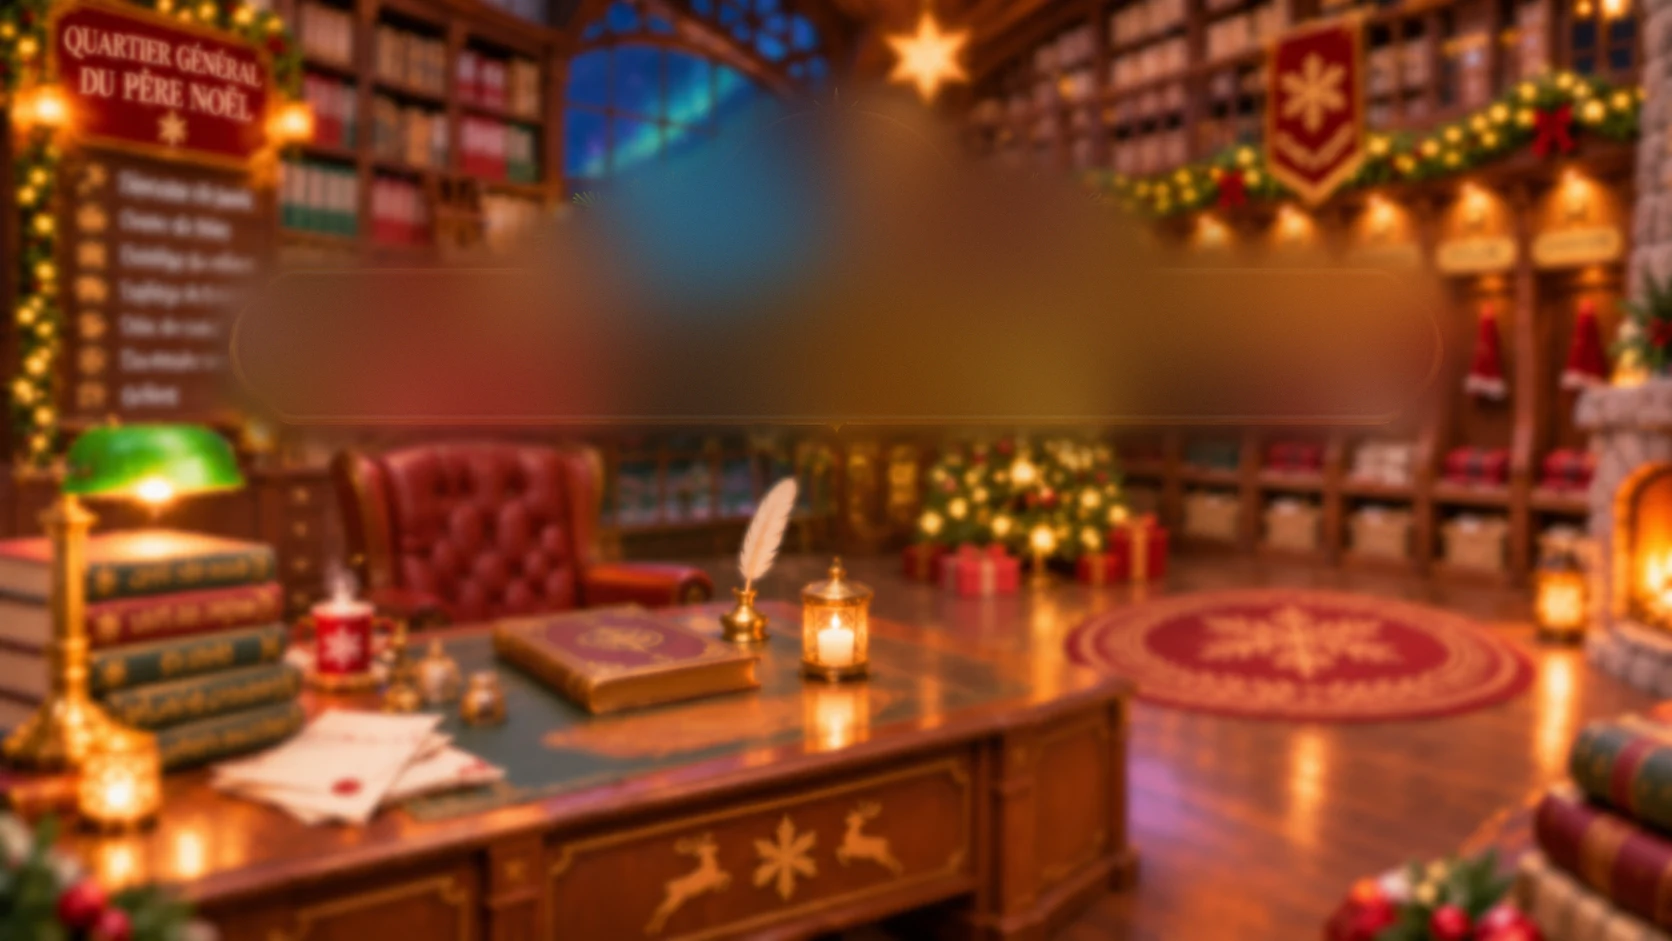
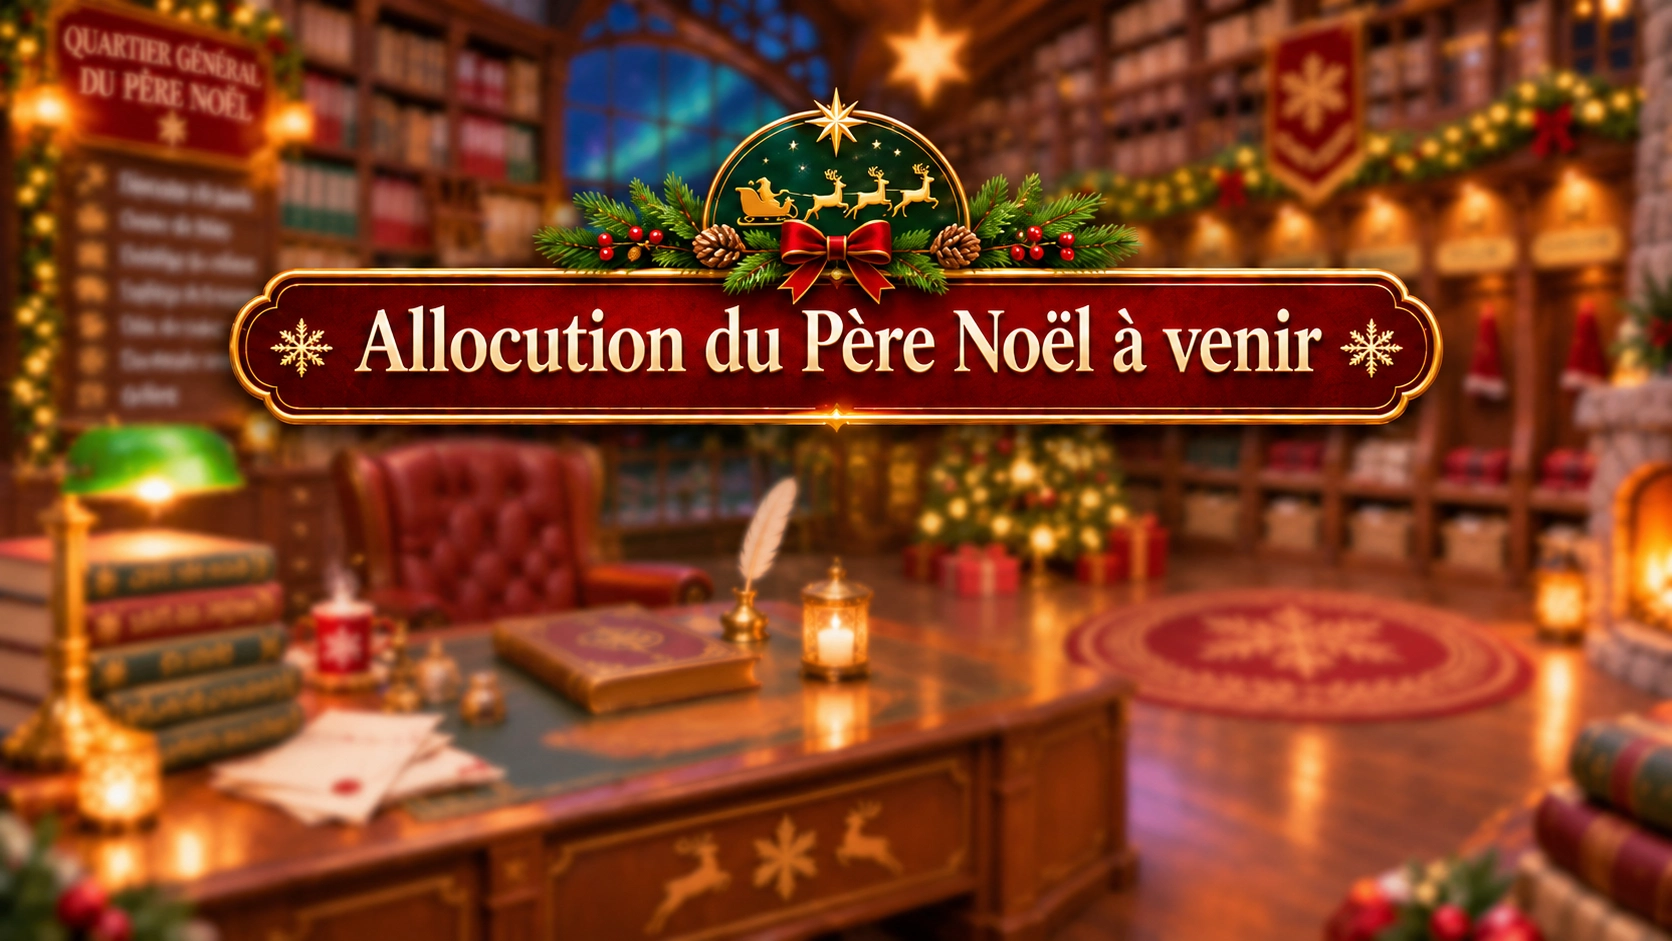
Écran d'attente en haute qualité avec la nouvelle plaque du compte à rebours
- Fond : maquette « Allocution du Père Noël à venir » d'origine (WebP haute qualité),
  sans reconstruction ni zoom permanent ; effets posés sur le bandeau (halo,
  reflet doré, étoiles) via son masque
- Plaque du compte à rebours HD détourée, affichée seulement quand le maître du
  jeu lance le compte à rebours ; chiffres d'origine effacés, temps affiché en direct
- Chiffres en Playfair Display (embarquée), alignés et à chasse fixe

Changed region(s): [[0.1244, 0.0616, 0.8708, 0.4931]]

diff --git a/frontend/src/components/tv/WaitingScreen.tsx b/frontend/src/components/tv/WaitingScreen.tsx
@@ -1,6 +1,5 @@
 import { useEffect, useMemo, useState, type CSSProperties } from "react";
 
-import bandeau from "../../assets/attente/bandeau.webp";
 import bandeauMasque from "../../assets/attente/bandeau-masque.webp";
 import fond from "../../assets/attente/fond.webp";
 import plaque from "../../assets/attente/plaque.webp";
@@ -12,13 +11,15 @@ import { formatCountdown, remainingSeconds } from "./playback";
 const FINAL_SECONDS = 10;
 
 /*
- * Les calques sont découpés dans les maquettes 1672×941 : leurs positions sont exprimées en % du cadre 16:9
- * de la TV, pour se superposer exactement au fond quelle que soit la résolution.
+ * Le fond est la maquette « Allocution du Père Noël à venir » (1672×941) telle quelle : les effets sont posés
+ * par-dessus, en % du cadre 16:9 de la TV, pour tomber au bon endroit quelle que soit la résolution.
  */
+/** Emplacement du bandeau titre dessiné dans le fond (masque du reflet doré). */
 const BANDEAU_BOX: CSSProperties = { left: "13.158%", top: "8.502%", width: "73.684%", height: "38.257%" };
-const PLAQUE_BOX: CSSProperties = { left: "25.419%", top: "45.165%", width: "49.043%", height: "39.851%" };
-/** Zone des chiffres à l'intérieur de la plaque verte. */
-const DIGITS_BOX: CSSProperties = { left: "17.44%", top: "12%", width: "65.12%", height: "46.93%" };
+/** Plaque du compte à rebours (image 1390×697) centrée sous le bandeau. */
+const PLAQUE_BOX: CSSProperties = { left: "26.5%", top: "45.5%", width: "47%", height: "41.9%" };
+/** Zone des chiffres à l'intérieur de la plaque verte (chiffres d'origine effacés de l'image). */
+const DIGITS_BOX: CSSProperties = { left: "17.41%", top: "11.91%", width: "65.9%", height: "43.9%" };
 
 /** Points scintillants, en % du bandeau : étoile du sommet et flocons de part et d'autre du titre. */
 const SPARKLES = [
@@ -143,9 +144,12 @@ function Digits({ text, final }: { text: string; final: boolean }) {
   return (
     <p
       data-testid="tv-countdown"
-      className="flex h-full items-center justify-center font-display font-extrabold leading-none tabular-nums"
+      className="flex h-full items-center justify-center font-bold leading-none"
       style={{
-        fontSize: "19cqh",
+        fontFamily: '"Playfair Display", Georgia, serif',
+        // Chiffres alignés (Playfair utilise par défaut des chiffres elzéviriens) et à chasse fixe.
+        fontVariantNumeric: "lining-nums tabular-nums",
+        fontSize: "19.5cqh",
         animation: final ? "count-pulse 1s ease-in-out infinite" : undefined,
         filter: "drop-shadow(0 0.04em 0 rgb(40 20 5 / 0.9)) drop-shadow(0 0 0.12em rgb(255 215 120 / 0.55))",
       }}
@@ -176,7 +180,7 @@ export function WaitingScreen({ countdownUntil, clockOffset }: { countdownUntil:
       <div aria-hidden className="absolute inset-0" style={{ animation: "scene-in 2.6s cubic-bezier(0.2,0.7,0.2,1) both" }}>
         <div
           className="absolute inset-0 bg-cover bg-center"
-          style={{ backgroundImage: `url(${fond})`, animation: "scene-breathe 30s ease-in-out 2.6s infinite alternate" }}
+          style={{ backgroundImage: `url(${fond})` }}
         />
         {LIGHTS.map((l, i) => (
           <span
@@ -197,27 +201,25 @@ export function WaitingScreen({ countdownUntil, clockOffset }: { countdownUntil:
 
       <GoldDust />
 
-      {/* Bandeau titre */}
-      <div
-        className="absolute"
-        style={{ ...BANDEAU_BOX, animation: "banner-in 1.6s cubic-bezier(0.2,1.25,0.4,1) 0.5s both" }}
-        aria-label="Allocution du Père Noël à venir"
-        role="img"
-      >
-        <div className="relative h-full w-full" style={{ animation: "float-soft 7s ease-in-out 2.5s infinite" }}>
-          <img
-            src={bandeau}
-            alt=""
-            className="absolute inset-0 h-full w-full"
-            style={{ animation: "banner-glow 4s ease-in-out 2.5s infinite" }}
-          />
-          <Shimmer mask={bandeauMasque} delay={2.6} period={7} />
-          {SPARKLES.map((s, i) => (
-            <Sparkle key={i} {...s} />
-          ))}
-        </div>
+      {/* Effets sur le bandeau titre du fond : halo qui respire, reflet doré, étoiles */}
+      <div aria-hidden className="absolute" style={{ ...BANDEAU_BOX, animation: "fade-in 1.2s ease-out 1.6s both" }}>
+        <div
+          className="absolute inset-0 mix-blend-screen"
+          style={{
+            WebkitMaskImage: `url(${bandeauMasque})`,
+            maskImage: `url(${bandeauMasque})`,
+            WebkitMaskSize: "100% 100%",
+            maskSize: "100% 100%",
+            background: "radial-gradient(ellipse at 50% 70%, rgb(255 200 110 / 0.35), transparent 70%)",
+            animation: "glow-breathe 4s ease-in-out infinite",
+          }}
+        />
+        <Shimmer mask={bandeauMasque} delay={1.4} period={7} />
+        {SPARKLES.map((s, i) => (
+          <Sparkle key={i} {...s} />
+        ))}
       </div>
-      {/* Texte accessible / testable (le titre est dessiné dans l'image). */}
+      {/* Texte accessible / testable (le titre est dessiné dans le fond). */}
       <span className="sr-only">Allocution du Père Noël à venir</span>
 
       {/* Plaque du compte à rebours */}
@@ -257,7 +259,7 @@ export function WaitingScreen({ countdownUntil, clockOffset }: { countdownUntil:
                 aria-hidden
                 key={remaining}
                 className="absolute rounded-full border-[0.4cqh] border-or-300"
-                style={{ left: "50%", top: "84%", width: "8cqh", height: "8cqh", animation: "bell-wave 1s ease-out both" }}
+                style={{ left: "50%", top: "86%", width: "8cqh", height: "8cqh", animation: "bell-wave 1s ease-out both" }}
               />
             )}
           </div>

diff --git a/frontend/src/index.css b/frontend/src/index.css
@@ -73,20 +73,10 @@
 }
 /* Écran d'attente avant l'intro (components/tv/WaitingScreen.tsx) */
 @keyframes scene-in {
-  from { opacity: 0; transform: scale(1.1); filter: blur(12px) brightness(0.4); }
+  from { opacity: 0; transform: scale(1.06); filter: blur(12px) brightness(0.4); }
   to { opacity: 1; transform: none; filter: none; }
 }
-@keyframes scene-breathe { from { transform: scale(1); } to { transform: scale(1.045) translate(-0.6%, 0.4%); } }
-@keyframes banner-in {
-  0% { opacity: 0; transform: translateY(-18%) scale(0.82); filter: blur(8px) brightness(2); }
-  60% { opacity: 1; filter: blur(0) brightness(1.4); }
-  100% { opacity: 1; transform: none; filter: none; }
-}
-@keyframes float-soft { 0%, 100% { transform: translateY(0); } 50% { transform: translateY(-1.2%); } }
-@keyframes banner-glow {
-  0%, 100% { filter: drop-shadow(0 0 0.6cqh rgb(255 210 120 / 0.25)); }
-  50% { filter: drop-shadow(0 0 2.2cqh rgb(255 210 120 / 0.6)); }
-}
+@keyframes glow-breathe { 0%, 100% { opacity: 0.25; } 50% { opacity: 1; } }
 @keyframes shimmer-sweep {
   0% { transform: translateX(0) skewX(-12deg); }
   35%, 100% { transform: translateX(450%) skewX(-12deg); }

diff --git a/frontend/src/main.tsx b/frontend/src/main.tsx
@@ -1,5 +1,6 @@
 import "@fontsource/cinzel/600.css";
 import "@fontsource/mountains-of-christmas/700.css";
+import "@fontsource/playfair-display/latin-700.css";
 import "@fontsource/cinzel/800.css";
 import "@fontsource/nunito/400.css";
 import "@fontsource/nunito/700.css";
